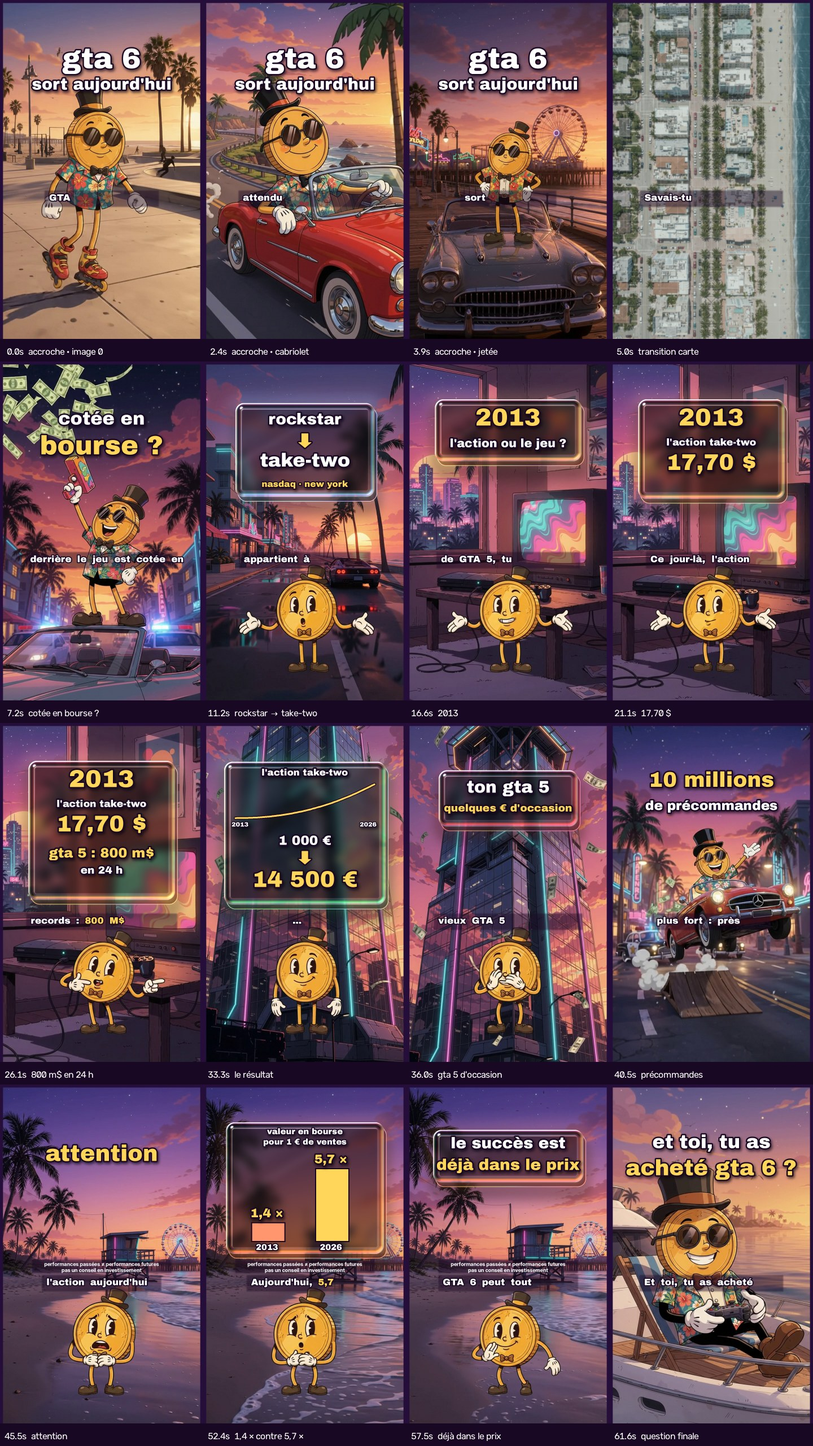
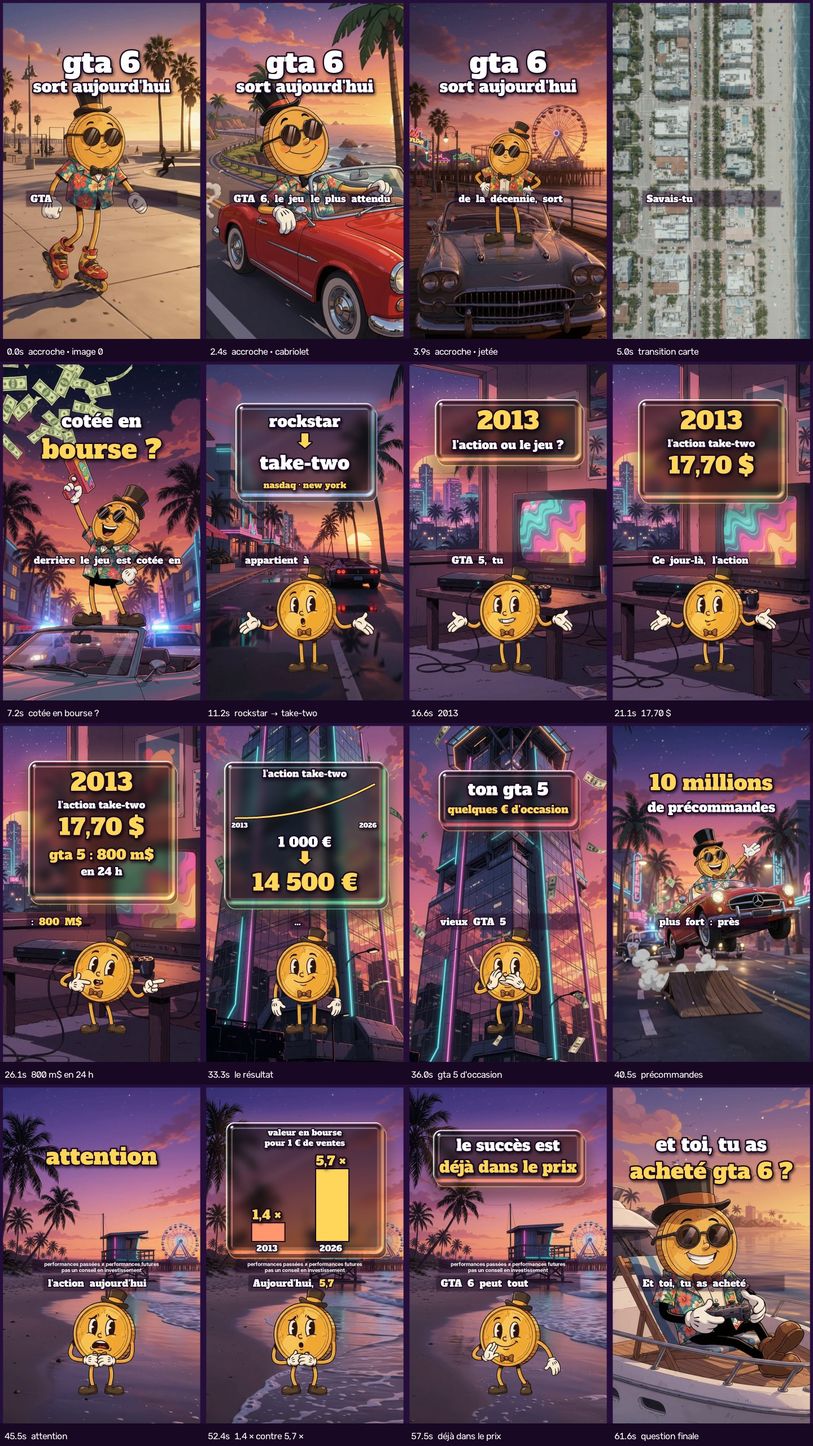
Take-Two : maquettes v3 en Alfa Slab One (police maison)
Claude-Session: https://claude.ai/code/session_01WbC6AQurEuTGL11P2Uskn1

diff --git a/episodes/2026-11-19_take_two/maquettes.py b/episodes/2026-11-19_take_two/maquettes.py
@@ -8,7 +8,7 @@ from PIL import Image, ImageDraw, ImageFont, ImageFilter
 D = os.path.dirname(os.path.abspath(__file__)); R = f'{D}/../..'
 sys.path.insert(0, f'{R}/mister_coin'); sys.path.insert(0, f'{R}/lib')
 W, H = 1080, 1920
-F_TIT = f'{R}/fonts/ArchivoBlack-Regular.ttf'      # titres et chiffres dans la vidéo (Big Shoulders réservée à la couverture, retour du 17/11)
+F_TIT = f'{R}/fonts/AlfaSlabOne-Regular.ttf'      # police maison (Alfa Slab One) pour titres, chiffres et sous-titres ; Big Shoulders réservée à la couverture (17/11)
 F_MEN = f'{R}/fonts/InterDisplay-Bold.otf'
 INK = (25, 8, 35); GOLD = (255, 214, 90); BORD = (38, 14, 58)
 

diff --git a/docs/formats/gta.md b/docs/formats/gta.md
@@ -1,5 +1,5 @@
 # DA « façon GTA 6 » (validée par Nicolas le 14/11, épisode Take-Two du 19/11, à produire le mercredi 18)
-- Retour du 17/11 : Big Shoulders jugée moche et illisible en vidéo, réservée à la couverture ; dans la vidéo, titres et chiffres en Archivo Black (chiffres en jaune doré). Informations posées sur les panneaux de verre épais translucides (`lib/verre_epais.py`), titres nus sur les plans d'action.
+- Retour du 17/11 : Big Shoulders jugée moche et illisible en vidéo, réservée à la couverture ; dans la vidéo, notre police habituelle Alfa Slab One pour les titres, les chiffres (jaune doré) et les sous-titres. Informations posées sur les panneaux de verre épais translucides (`lib/verre_epais.py`), titres nus sur les plans d'action.
 - Polices (licence libre OFL, fichiers et licences dans `fonts/`) : titres en `ArchivoBlack-Regular.ttf`, minuscules, blanc, contour violet-noir (25, 8, 35) d'environ 6–7 px, ombre portée floue ; chiffres et montants en `BigShouldersDisplay-Black.ttf` (haute et condensée, rappelle Pricedown), jaune doré (255, 214, 90), même contour. Aperçu de référence : `fonts/apercu_da_gta.jpg`. Pas de flèche dans les polices : la dessiner (polygone, même couleur et contour).
 - Pricedown (police historique de GTA) écartée : sa licence gratuite interdit l'usage sur serveurs et services cloud. Passion One écartée (trop enfantine).
 - Ambiance : dégradé coucher de soleil rose-orange (255, 150, 110) vers violet (90, 40, 140), palmiers, néons, front de mer, voitures de sport ; grille de cases de BD aux bords violet foncé façon écran de chargement, avec nos propres scènes ; Mister Coin en chemise hawaïenne et lunettes de soleil. Format 60 s.
